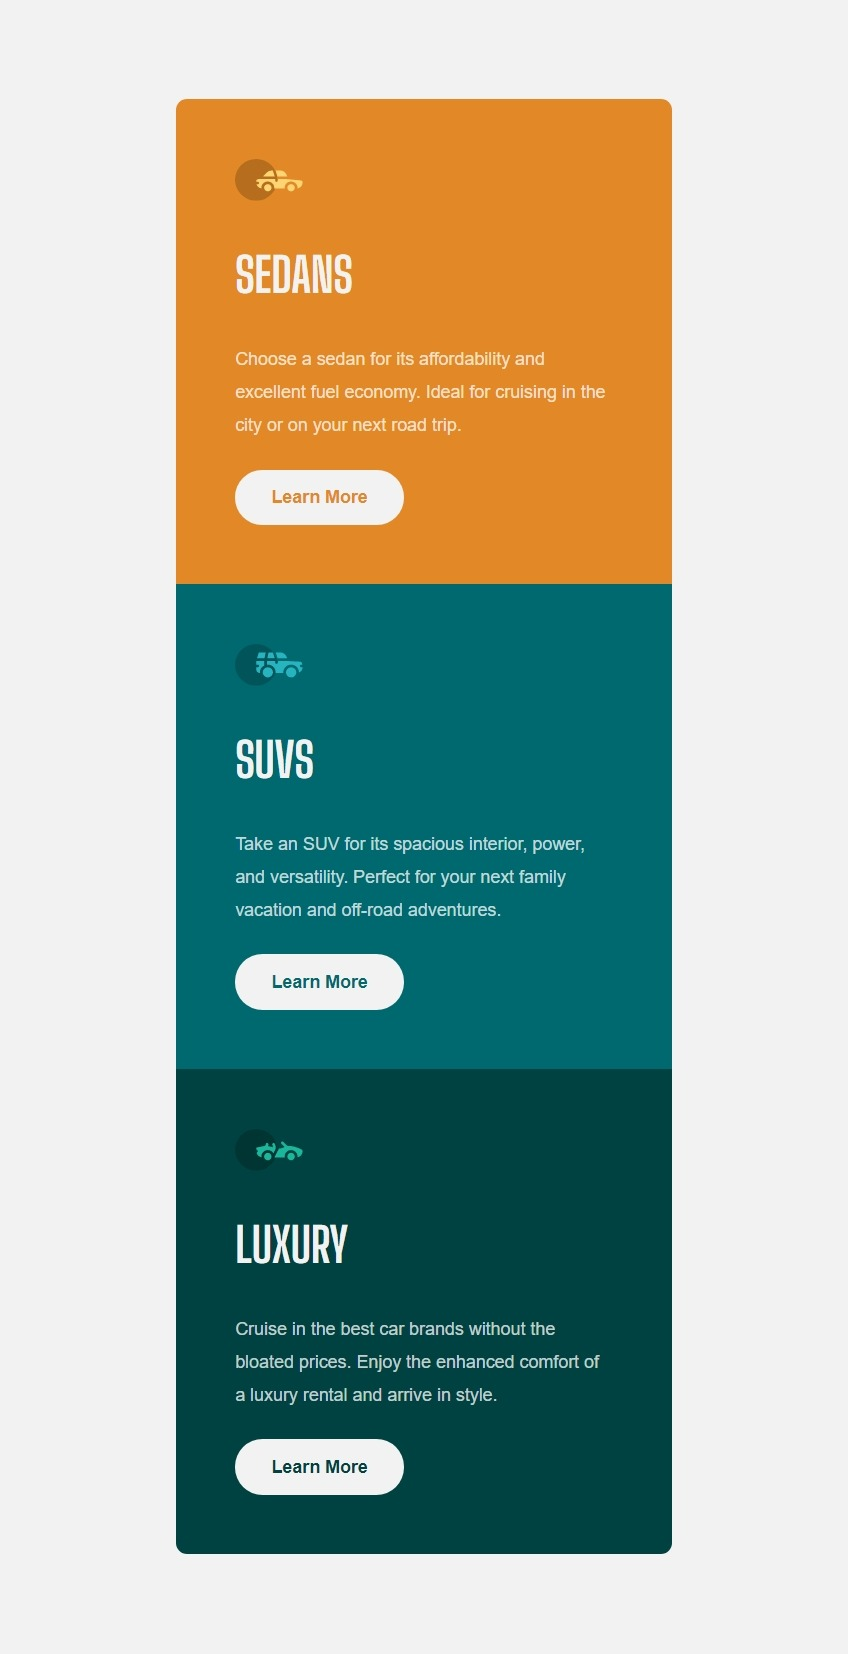
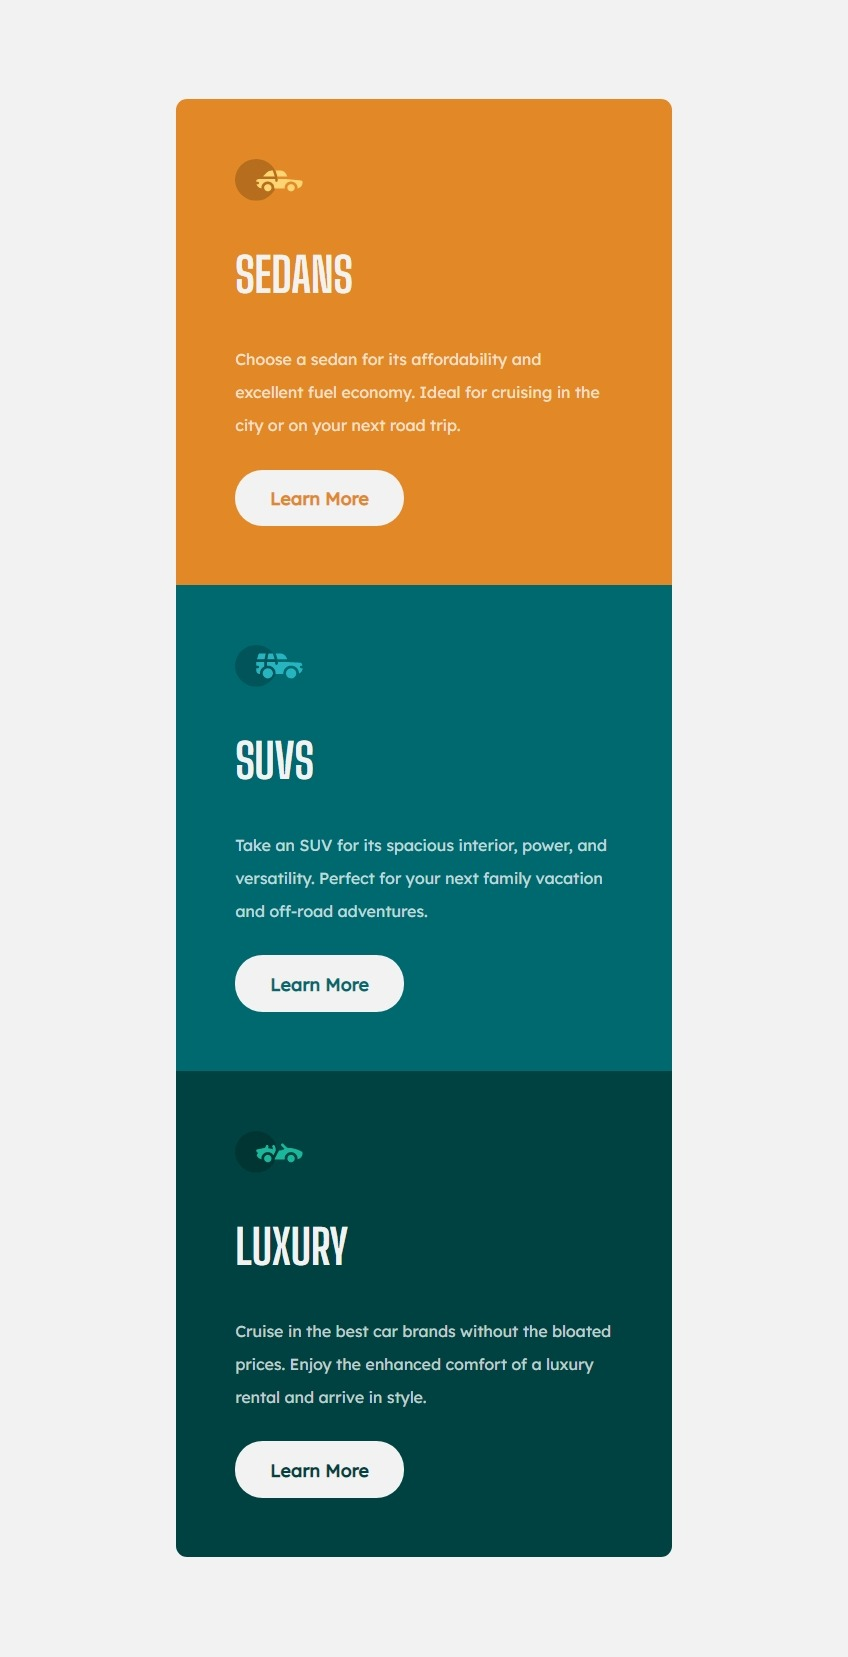
Changes on design

diff --git a/src/css/style.css b/src/css/style.css
@@ -25,7 +25,7 @@ The designs were created to the following widths:
     --font-family-secondary     : 'Big Shoulders Display', cursive;
     /*-- Fonts Size --*/
     --font-size-text            : 1vw;
-    --font-size-titles          : 2.3vw;
+    --font-size-titles          : 2.4vw;
 }
 
 /*============ FOOTER SECTION | ROOT & IMPORTS =========*/
@@ -55,7 +55,7 @@ body {
 .cards_container {
     display  : flex;
     flex-flow: row nowrap;
-    max-width: 55em;
+    max-width: 56em;
 }
 
 .card_data-container {
@@ -93,8 +93,8 @@ body {
 }
 
 .card_data-container .card_data-icon img {
-    width    : 3.4rem;
-    max-width: 3.4rem;
+    width    : 3.7rem;
+    max-width: 3.7rem;
 }
 
 .card_data-container .card_data-title {
@@ -107,6 +107,7 @@ body {
 
 .card_data-container .card_data-text {
     margin-bottom: 4rem;
+    font-family: var(--font-family-primary);
     font-size    : var(--font-size-text);
     line-height  : 1.7rem;
 }
@@ -115,13 +116,15 @@ body {
     max-width            : 8.5rem;
     padding              : .75rem 1rem;
     background           : var(--color-secondary-gray-light);
+    font-family: var(--font-family-primary);
+    font-size: .9rem;
+    font-weight: 600;
     border               : 2px transparent solid;
     border-radius        : 25px;
     -webkit-border-radius: 25px;
     -moz-border-radius   : 25px;
     -ms-border-radius    : 25px;
     -o-border-radius     : 25px;
-    font-weight          : 600;
     cursor               : pointer;
     transition           : all 390ms ease-in-out;
     -webkit-transition   : all 390ms ease-in-out;
@@ -183,7 +186,7 @@ body {
     }
 
     .card_data-container .card_data-text {
-        font-size: .9rem;
+        font-size: .8rem;
         margin-bottom: 1.4rem;
     }
 

diff --git a/style-guide.md b/style-guide.md
@@ -1,0 +1,35 @@
+# Front-end Style Guide
+
+## Layout
+
+The designs were created to the following widths:
+
+- Mobile: 375px
+- Desktop: 1440px
+
+## Colors
+
+### Primary
+
+Bright orange: hsl(31, 77%, 52%)
+Dark cyan: hsl(184, 100%, 22%)
+Very dark cyan: hsl(179, 100%, 13%)
+
+### Neutral
+
+Transparent white (paragraphs): hsla(0, 0%, 100%, 0.75)
+Very light gray (background, headings, buttons): hsl(0, 0%, 95%)
+
+## Typography
+
+### Body Copy
+
+- Font size: 15px
+
+### Font
+
+- Family: [Lexend Deca](https://fonts.google.com/specimen/Lexend+Deca)
+- Weights: 400
+
+- Family: [Big Shoulders Display](https://fonts.google.com/specimen/Big+Shoulders+Display)
+- Weights: 700
